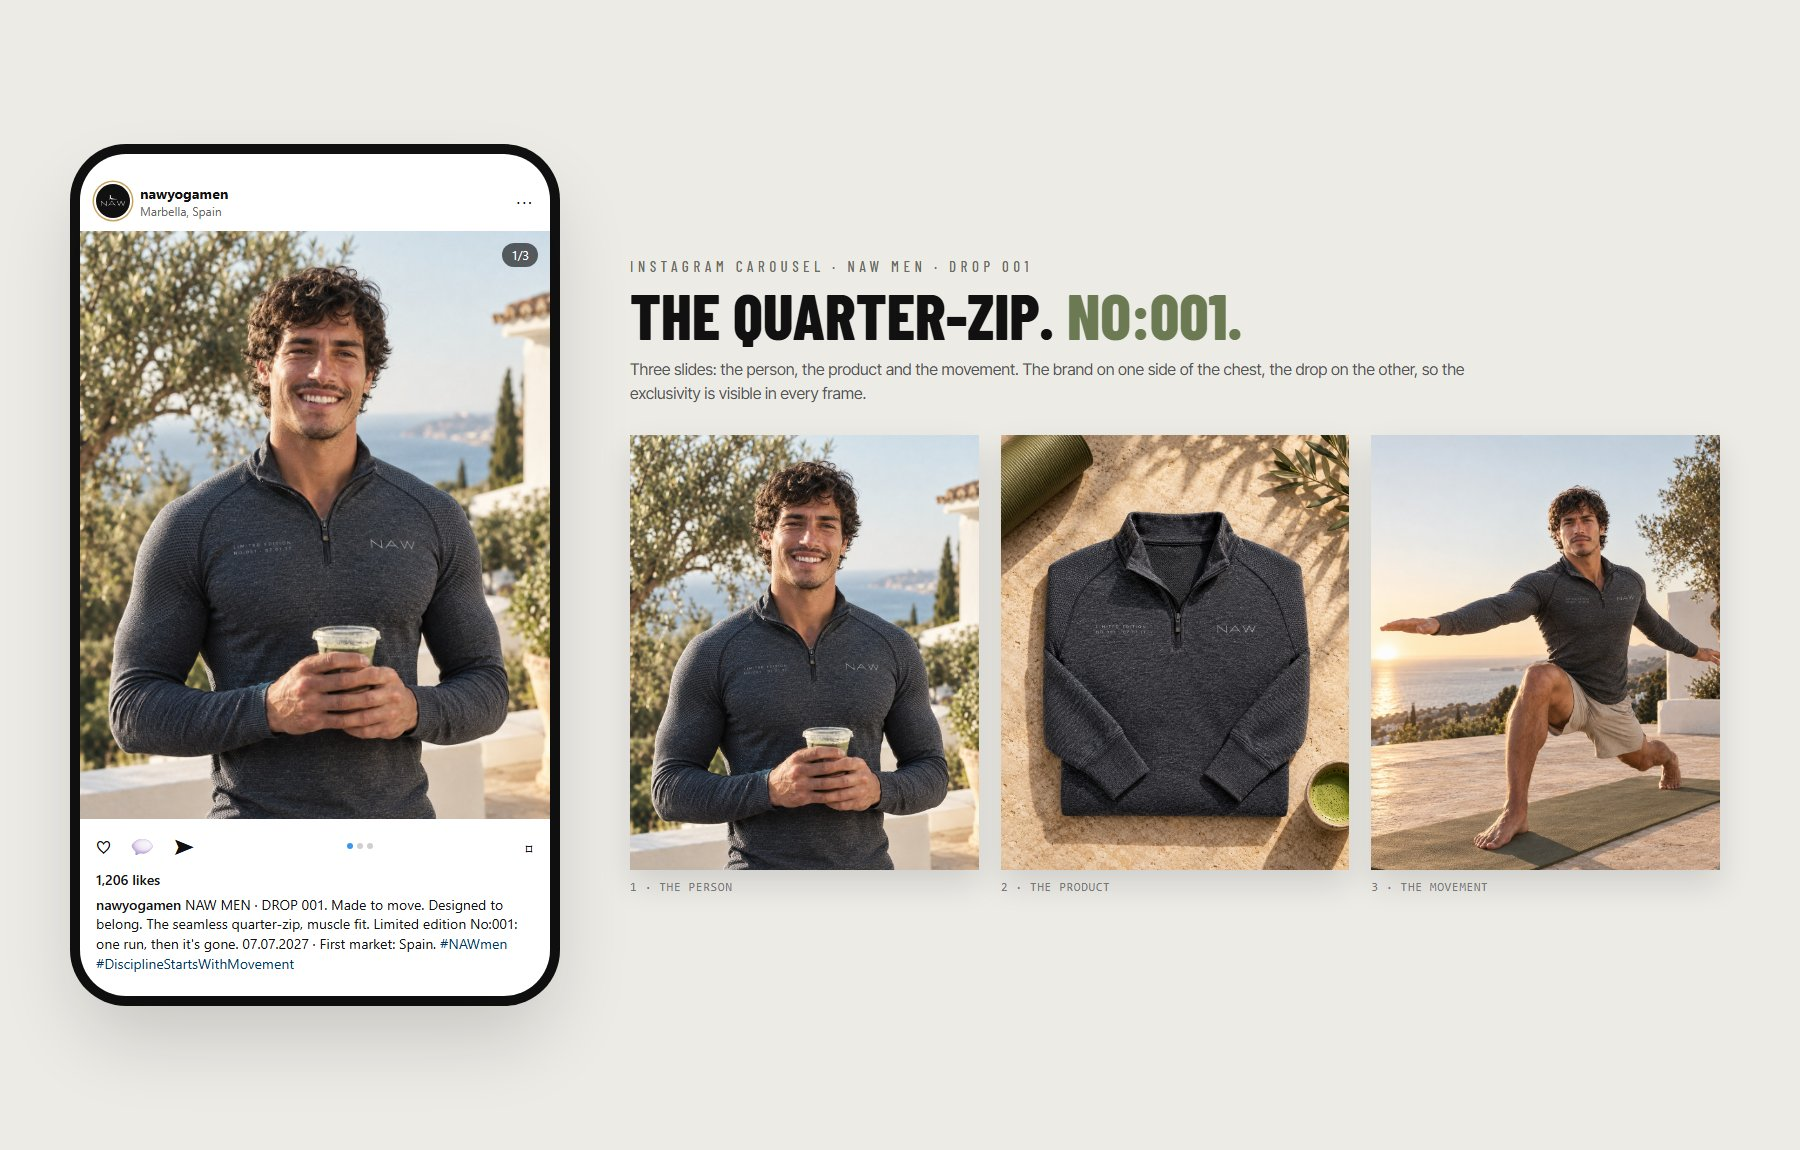
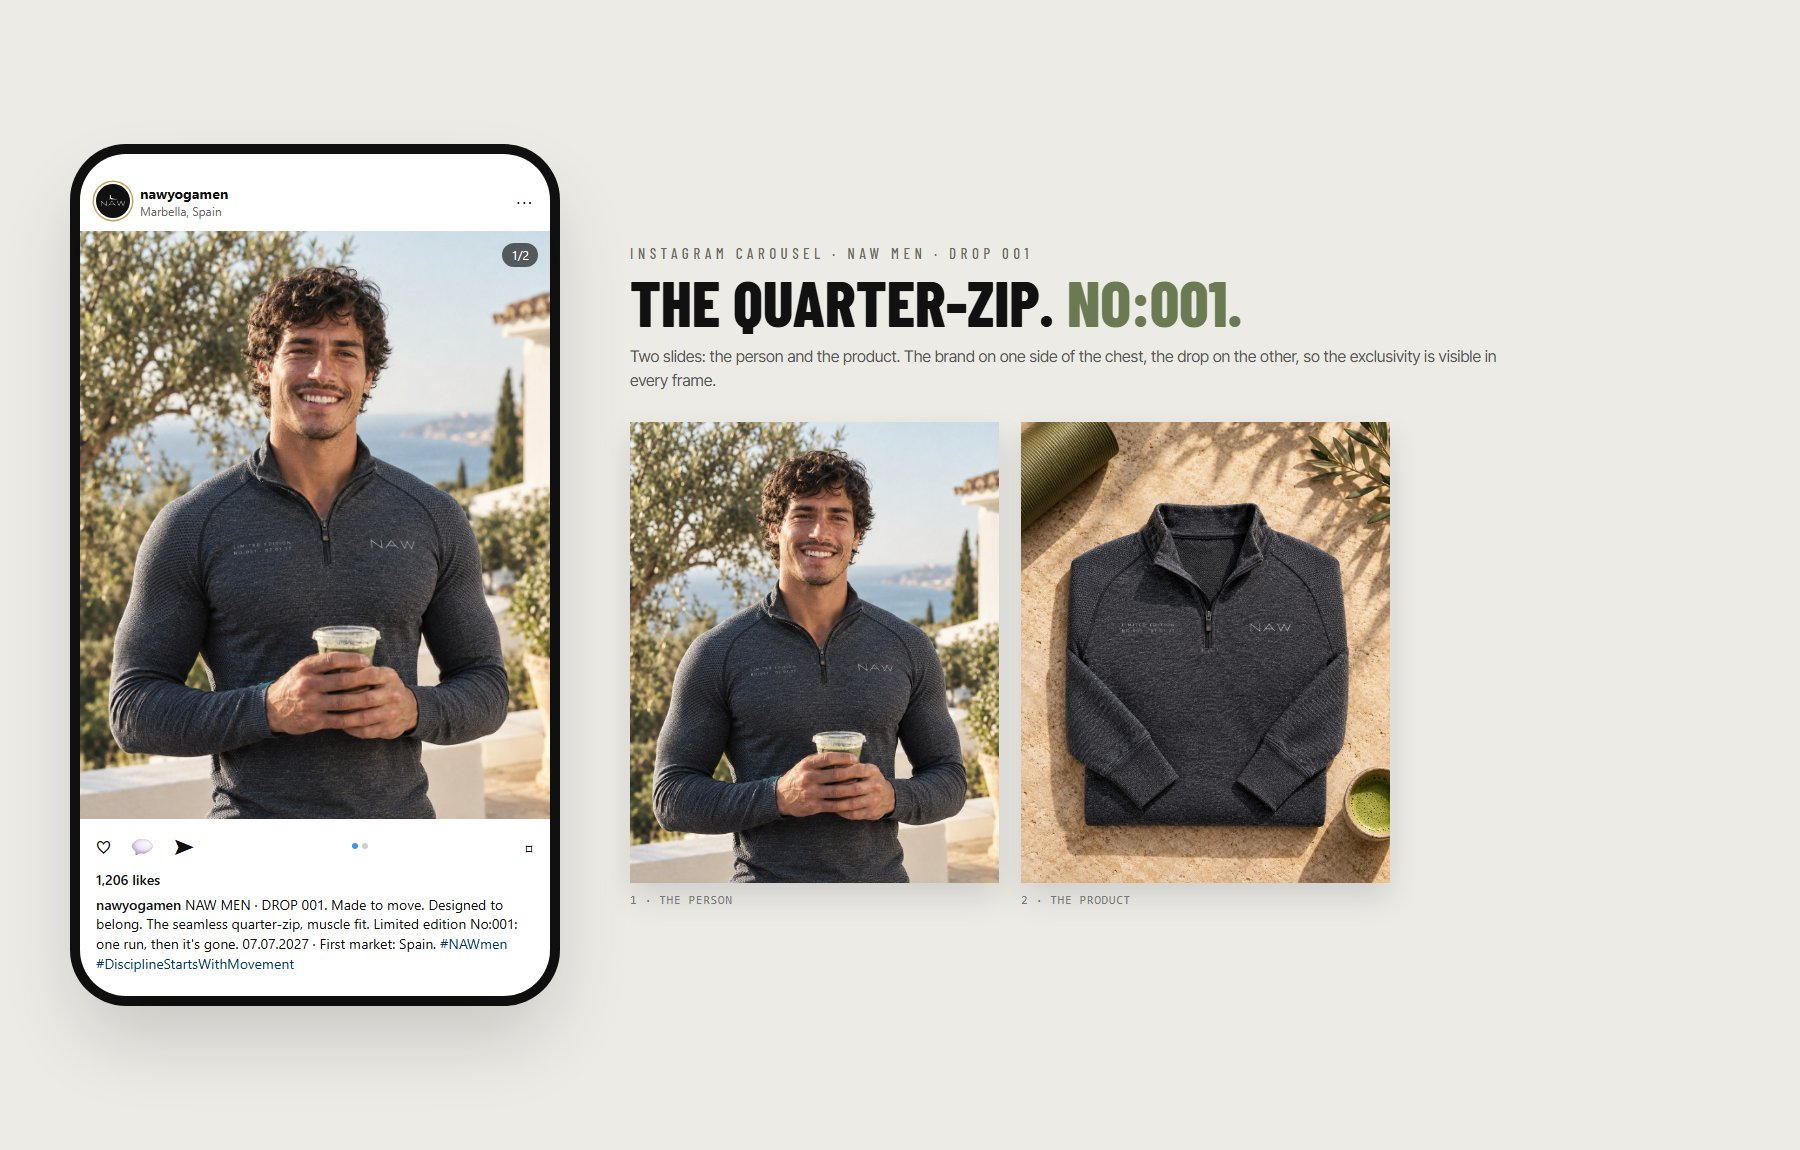
NAW Men: quito la imagen de la pose del guerrero del carrusel

Changed region(s): [[0.3422, 0.213, 0.9644, 0.7913]]

diff --git a/naw/index.html b/naw/index.html
@@ -133,11 +133,10 @@
     <figure><a href="img/quarterzip-2.jpg" target="_blank"><img src="img/quarterzip-2.jpg" alt="Producto"></a><figcaption>EL PRODUCTO</figcaption></figure>
   </div>
   <h3>Carrusel de Instagram</h3>
-  <p class="note">Tres imágenes a 1080 × 1350 (la persona, el producto y el movimiento) con el mismo modelo, la misma prenda y la misma luz.</p>
-  <div class="gal g3">
+  <p class="note">Dos imágenes a 1080 × 1350 (la persona y el producto) con la misma prenda y la misma luz.</p>
+  <div class="gal g2">
     <figure><a href="img/quarterzip-1.jpg" target="_blank"><img src="img/quarterzip-1.jpg" alt=""></a><figcaption>1 · LA PERSONA</figcaption></figure>
     <figure><a href="img/quarterzip-2.jpg" target="_blank"><img src="img/quarterzip-2.jpg" alt=""></a><figcaption>2 · EL PRODUCTO</figcaption></figure>
-    <figure><a href="img/quarterzip-3.jpg" target="_blank"><img src="img/quarterzip-3.jpg" alt=""></a><figcaption>3 · EL MOVIMIENTO</figcaption></figure>
   </div>
   <div class="gal"><figure><a href="img/quarterzip-preview.jpg" target="_blank"><img src="img/quarterzip-preview.jpg" alt=""></a><figcaption>CÓMO SE VE EN EL FEED · TEXTO DEL POST EN <a href="files/quarterzip-caption.txt" target="_blank">CAPTION.TXT</a></figcaption></figure></div>
 </div></section>
